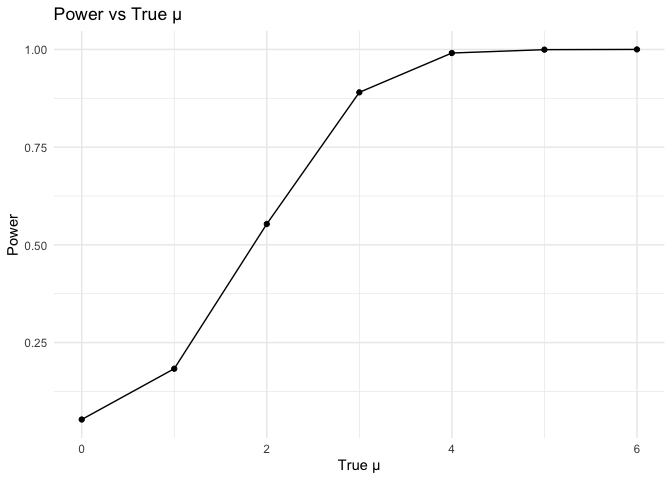
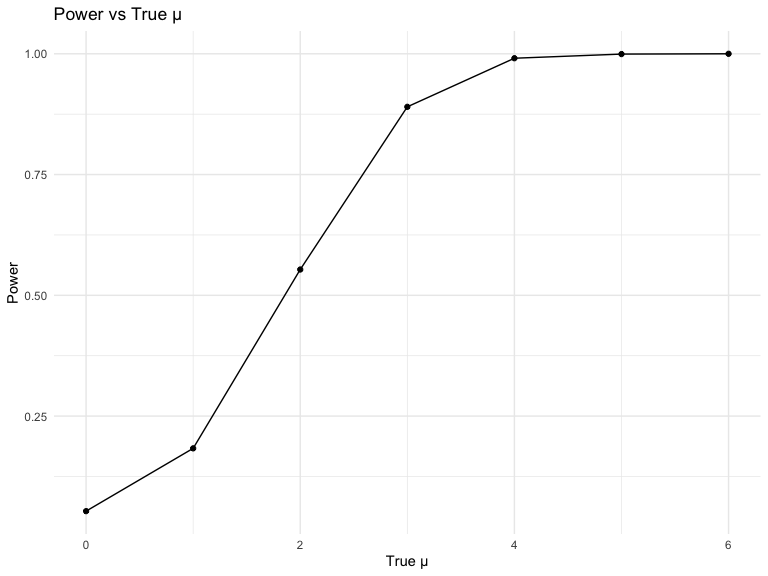
changed setup

diff --git a/p8105_hw5_hj2660.md b/p8105_hw5_hj2660.md
@@ -73,7 +73,7 @@ test_results %>%
   theme(axis.text.x = element_text(angle = 90, hjust = 1))
 ```
 
-![](p8105_hw5_hj2660_files/figure-gfm/unnamed-chunk-5-1.png)<!-- -->
+<img src="p8105_hw5_hj2660_files/figure-gfm/unnamed-chunk-5-1.png" width="90%" />
 
 # Problem 2
 
@@ -138,7 +138,7 @@ spagetti_plot = tidy_df |>
 spagetti_plot
 ```
 
-![](p8105_hw5_hj2660_files/figure-gfm/unnamed-chunk-8-1.png)<!-- -->
+<img src="p8105_hw5_hj2660_files/figure-gfm/unnamed-chunk-8-1.png" width="90%" />
 Within the control group, observations for each subject fluctuate around
 a consistent value, while the experimental group exhibits a noticeable
 trend of increasing observations among subjects as the weeks progress.
@@ -234,7 +234,8 @@ sim_results_all |>
   theme_minimal()
 ```
 
-![](p8105_hw5_hj2660_files/figure-gfm/unnamed-chunk-13-1.png)<!-- -->
+<img src="p8105_hw5_hj2660_files/figure-gfm/unnamed-chunk-13-1.png" width="90%" />
+
 The power increases as the true value of µ rises. Once the true value of
 µ exceeds 4, the power approximates at 1. However, when the true value
 of µ is small, the power remains consistently low.
@@ -262,7 +263,8 @@ ggplot(all_avg, aes(x = mu, y = mean_mu)) +
   theme_minimal()
 ```
 
-![](p8105_hw5_hj2660_files/figure-gfm/unnamed-chunk-14-1.png)<!-- -->
+<img src="p8105_hw5_hj2660_files/figure-gfm/unnamed-chunk-14-1.png" width="90%" />
+
 The plot illustrates two lines: a black line representing all samples
 where the average estimate of μ is very close to the true value, and a
 blue line representing samples with rejected null hypotheses (p-value \<
